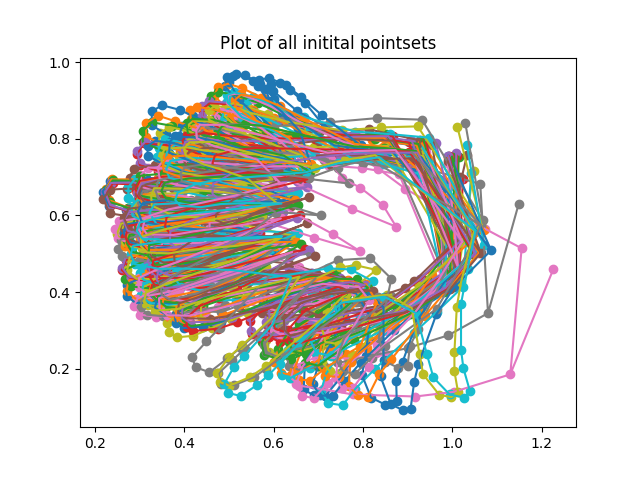
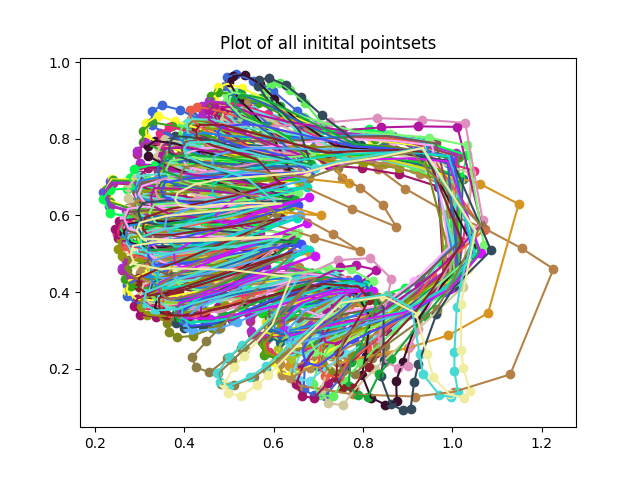
A1: Part a plot correction

Changed region(s): [[0.1562, 0.125, 0.875, 0.875]]

diff --git a/assignmentShapeAnalysis/code/solver.py b/assignmentShapeAnalysis/code/solver.py
@@ -12,15 +12,17 @@ def solve(data, save_plot_dir = '../results/hand', data_dir = None):
 
 	os.makedirs(save_plot_dir, exist_ok=True)
 	N = data.shape[0]
+	colors = np.random.rand(N,3)
 	
 	# -------------------------- Part A --------------------------- #
 	for i in range(N):
-		plt.plot(data[i,:,0], data[i,:,1], 'o')
+		plt.plot(data[i,:,0], data[i,:,1], 'o', color=colors[i])
 	plt.title('Plot of all initital pointsets')
 	plt.savefig(os.path.join(save_plot_dir, 'initial-all-data-scatter.png'))
 
 	for i in range(N):
-		plt.plot(np.insert(data[i,:,0], -1, data[i,0,0]), np.insert(data[i,:,1], -1, data[i,0,1]))
+		plt.plot(data[i,:,0], data[i,:,1], color=colors[i])
+		plt.plot([data[i,0,0], data[i,-1,0]], [data[i,0,1], data[i,-1,1]], color=colors[i])
 	plt.savefig(os.path.join(save_plot_dir, 'initial-all-data-polyline.png'))
 	plt.clf()
 
@@ -30,7 +32,6 @@ def solve(data, save_plot_dir = '../results/hand', data_dir = None):
 	mean, z_aligned = compute_mean(data)
 	for i in range(40):
 		plt.plot(z_aligned[i,:,0], z_aligned[i,:,1], 'o', alpha=0.4)
-	# import pdb; pdb.set_trace()
 	plt.plot(mean[0,:,0], mean[0,:,1], 'ko-')
 	plt.plot([mean[0,-1,0], mean[0,0,0]], [mean[0,-1,1], mean[0,0,1]], 'ko-')
 
@@ -43,6 +44,11 @@ def solve(data, save_plot_dir = '../results/hand', data_dir = None):
 
 	cov_matrix = compute_covariance_matrix(z_aligned, mean) # ndxnd matrix
 	eig_values, eig_vecs = np.linalg.eig(cov_matrix)
+
+	idx = eig_values.argsort()[::-1]
+	eig_values = eig_values[idx]
+	eig_vecs = eig_vecs[:,idx]
+
 	plt.plot(np.real(eig_values[::-1]))
 	plt.title('Eigenvalues (in y axis) plot (sorted in ascending order)')
 	plt.savefig(os.path.join(save_plot_dir, 'eigen-values.png'))
@@ -79,9 +85,10 @@ def solve(data, save_plot_dir = '../results/hand', data_dir = None):
 	for i in range(40):
 		plt.plot(z_aligned[i,:,0], z_aligned[i,:,1], 'o', alpha=0.15)
 	plt.plot(mean[0,:,0], mean[0,:,1], 'ko-', label='Mean')
+	plt.plot([mean[0,-1,0], mean[0,0,0]], [mean[0,-1,1], mean[0,0,1]], 'ko-')
 
 	plt.plot(var_2_plus[0,:,0], var_2_plus[0,:,1], 'ro-', label='Mean + 3 S.D')
-	plt.plot([var_2_plus[0,-1,0], var_2_plus[0,0,0]], [var_2_plus[0,-1,1], var_2_plus[0,0,1]])
+	plt.plot([var_2_plus[0,-1,0], var_2_plus[0,0,0]], [var_2_plus[0,-1,1], var_2_plus[0,0,1]], 'ro-')
 
 	plt.plot(var_2_minus[0,:,0], var_2_minus[0,:,1], 'bo-', label='Mean - 3 S.D')
 	plt.plot([var_2_minus[0,-1,0], var_2_minus[0,0,0]], [var_2_minus[0,-1,1], var_2_minus[0,0,1]], 'bo-')
@@ -96,6 +103,7 @@ def solve(data, save_plot_dir = '../results/hand', data_dir = None):
 	for i in range(40):
 		plt.plot(z_aligned[i,:,0], z_aligned[i,:,1], 'o', alpha=0.15)
 	plt.plot(mean[0,:,0], mean[0,:,1], 'ko-', label='Mean')
+	plt.plot([mean[0,-1,0], mean[0,0,0]], [mean[0,-1,1], mean[0,0,1]], 'ko-')
 
 	plt.plot(var_3_plus[0,:,0], var_3_plus[0,:,1], 'ro-', label='Mean + 3 S.D')
 	plt.plot([var_3_plus[0,-1,0], var_3_plus[0,0,0]], [var_3_plus[0,-1,1], var_3_plus[0,0,1]], 'ro-')
